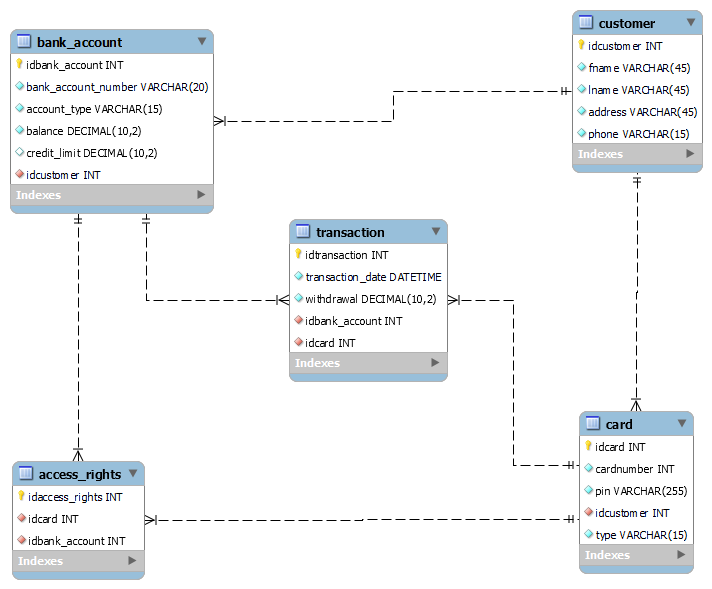
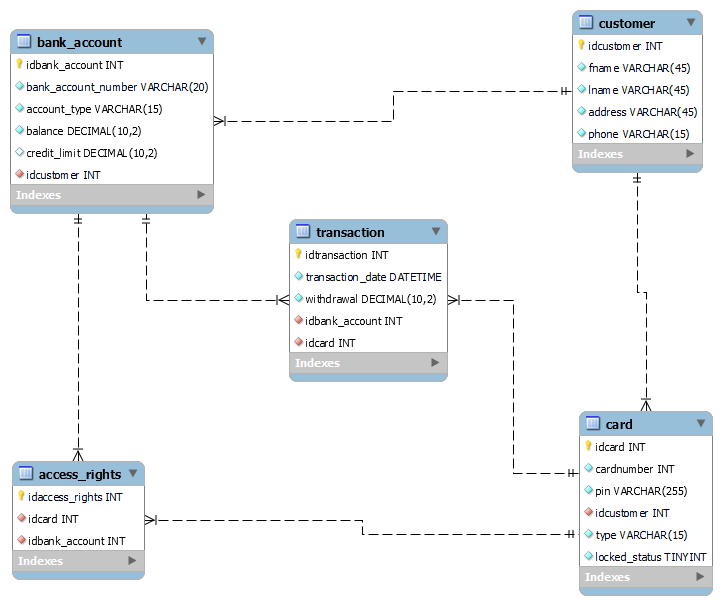
Updated READ ME, added new ER-diagram and sql-dumps

diff --git a/README.md b/README.md
@@ -1,16 +1,78 @@
-# group_17
+# ATM - Riihimaatti
+#### *Group 17 (TVT24KMO)*
 
-## Usage instructions 
+---
+
+## Table of contents
+
+*sisällysluettelo tähän*
+- *Project introduction*
+- *Project goals*
+- *Usage instructions*
+- *Documentation*
+- *Project outcome*
+- *Contributors*
+
+---
+
+## Usage instructions
+
+*Jotain fiksua tähän*
+
+---
+
+## Documentation
 
 ### Backend
+
 ```sh
 cd backend
 npm install
 npm run dev
 ```
+#### API??
 
-### Database
+#### Server/Linux??
 
-ER-diagram:
+#### Database
 
+For this project we created SQL database with MySQLWorkbench
+
+**ER-diagram:**
 <img src="ERdiagram.png">
+
+**Design for our database:**
+- Customer
+    - Columns: firstname, lastname, address, phonenumber
+    - Customer can have many accounts
+    - Customer can have multiple cards
+- Card
+    - Columns: cardnumber, pin-number, card type, locked status and foreign key for customer
+    - Card can have multiple access right to different accounts (debit, credit, debit/credit)
+    - Card must have one owner
+    - Card can have multiple transactions
+- Bank account
+    - Columns: account number, account type, balance, credit limit and foreign key for customer
+    - Bank account must have only one owner
+    - Bank account can have multiple transactions
+    - Bank account can grant multiple access rights to cards
+- Transaction
+    - Columns: transaction date, withdrawal amount, foreign keys for bank account and card
+    - One transaction must have one card
+    - One transaction must have one bank account
+- Access rights
+    - Columns: foreign keys for card and bank account
+    - One access right must have one card and one bank account
+
+### Frontend
+
+#### User interface (QT)
+
+---
+
+## Project outcome
+
+---
+
+## Contributors
+
